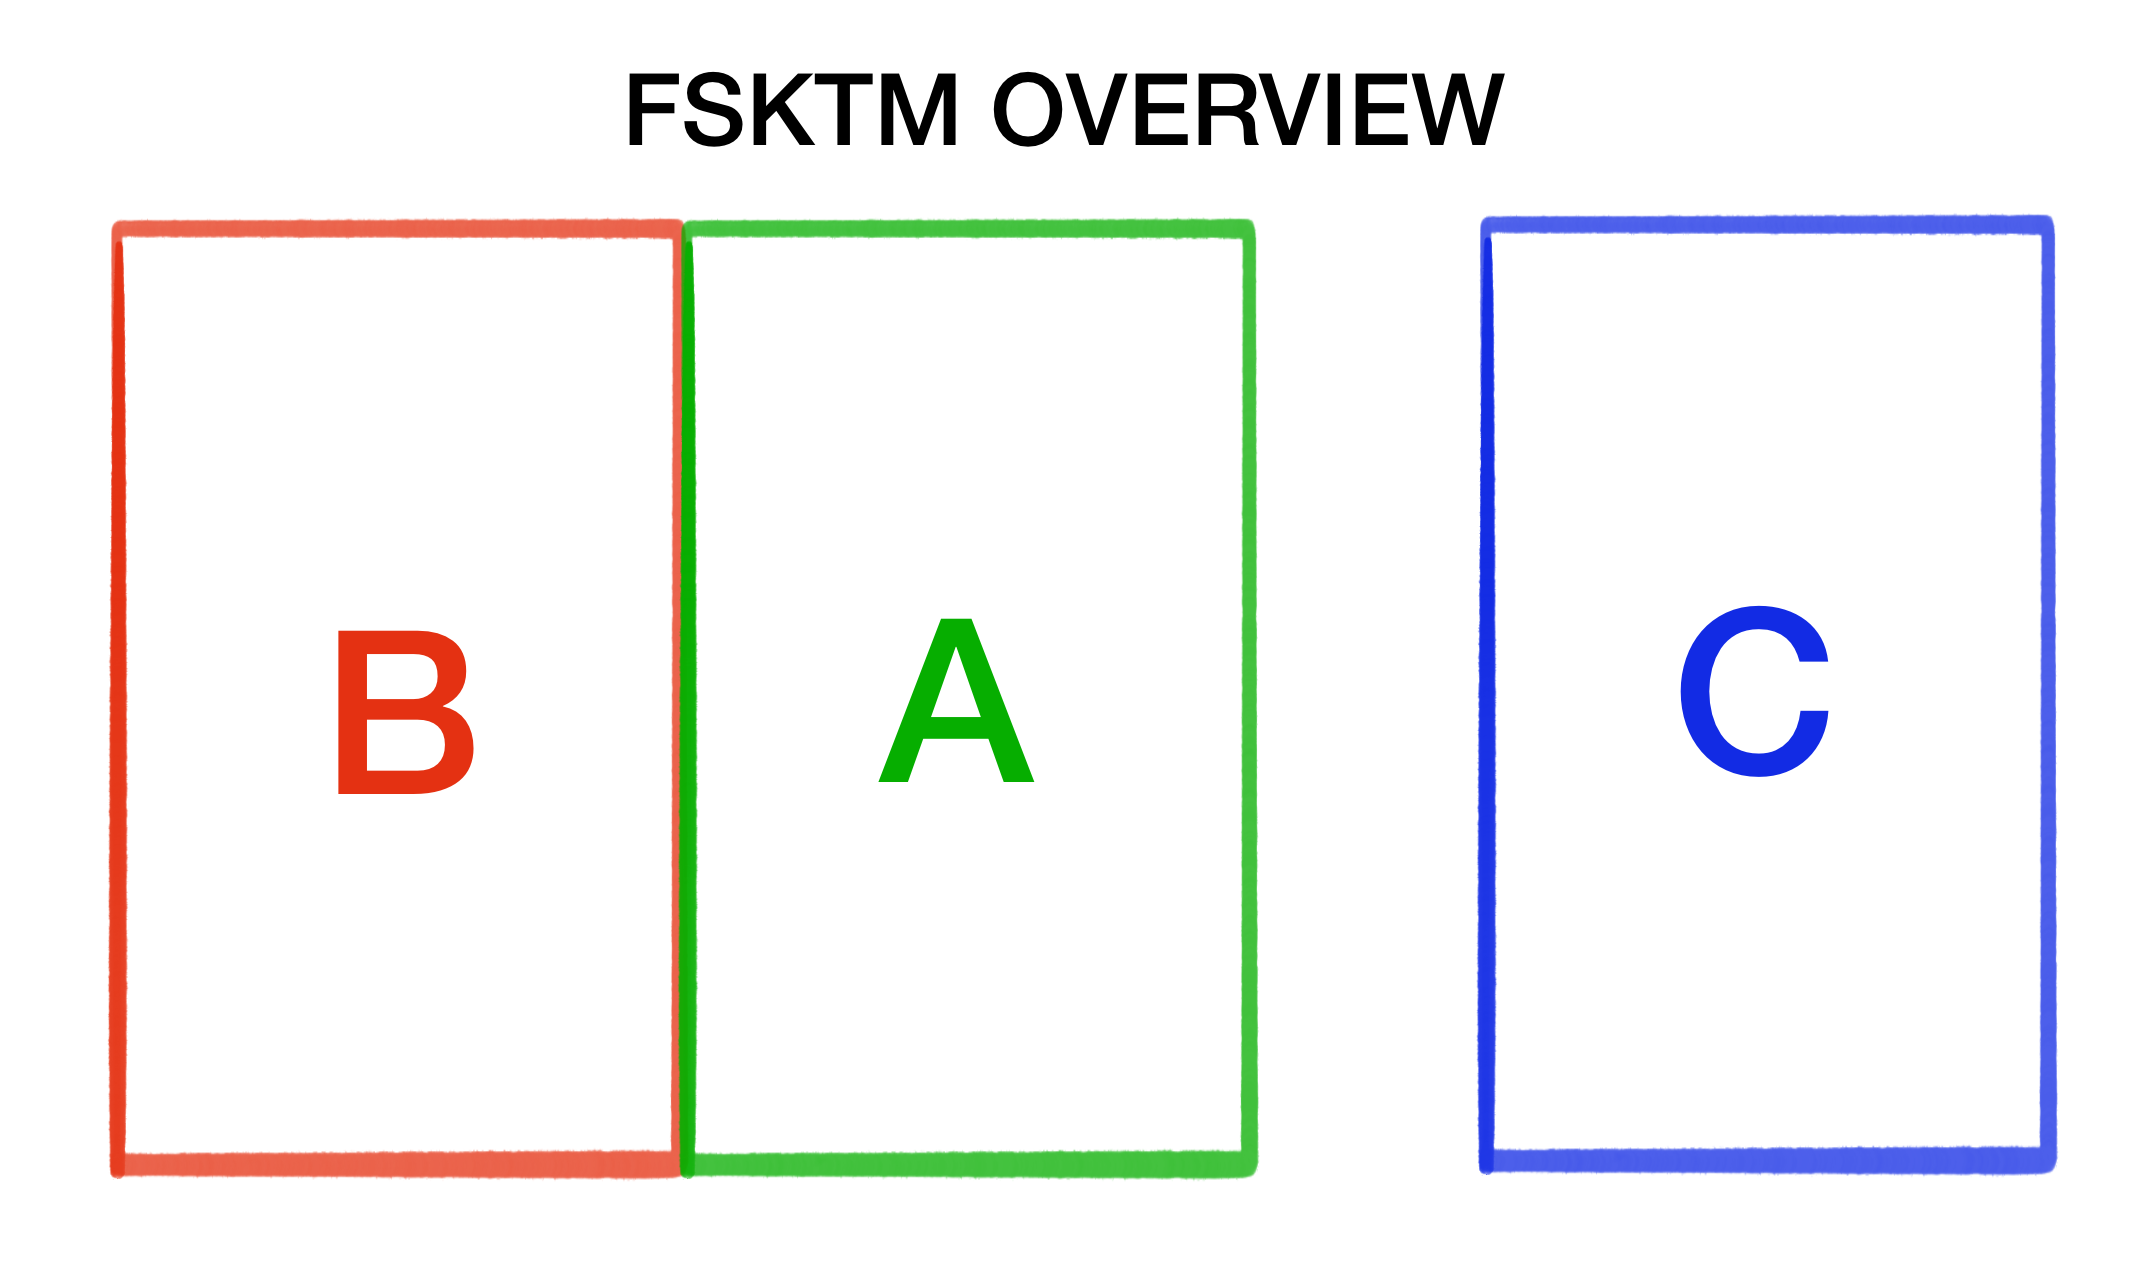
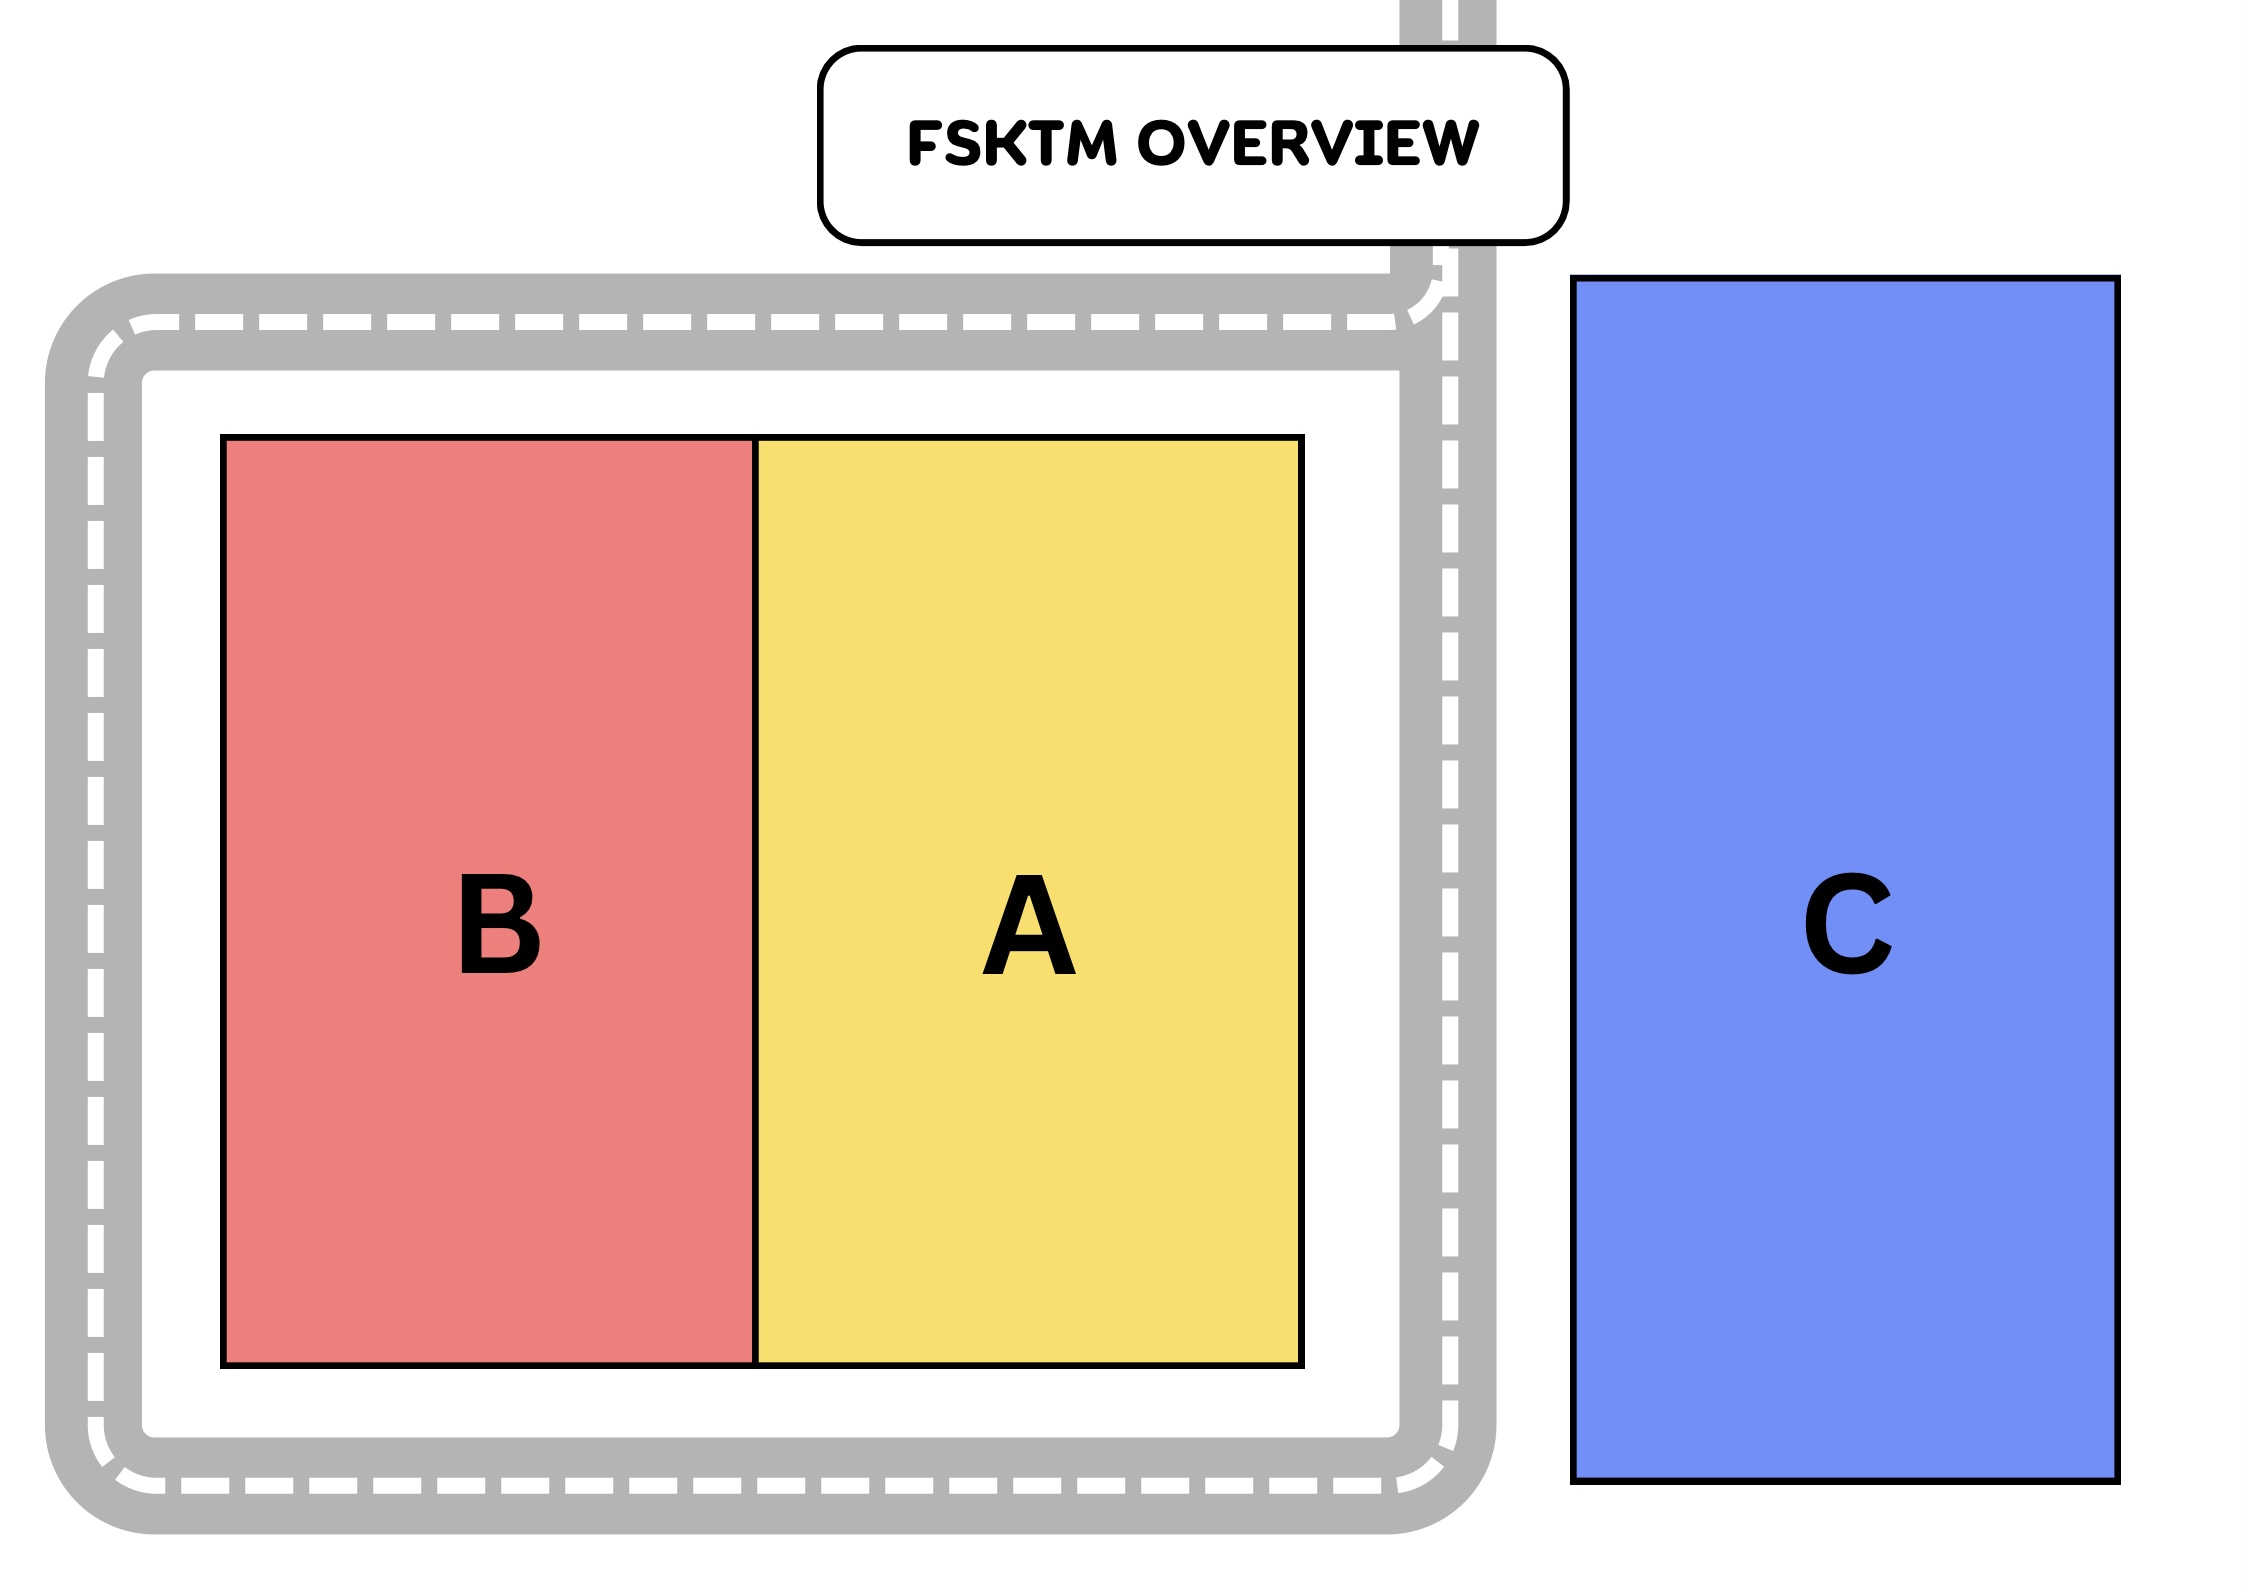
amni: updated faculty overview and adjusted block screen

diff --git a/fsktm_navigator/lib/screens/block_screen.dart b/fsktm_navigator/lib/screens/block_screen.dart
@@ -7,19 +7,29 @@ class BlockScreen extends StatelessWidget {
   Widget build(BuildContext context) {
     return Scaffold(
       backgroundColor: Colors.white,
+
       body: SafeArea(
         child: Padding(
-          padding: const EdgeInsets.symmetric(horizontal: 20, vertical: 16),
+          padding: const EdgeInsets.symmetric(
+            horizontal: 20,
+            vertical: 16,
+          ),
+
           child: Column(
             crossAxisAlignment: CrossAxisAlignment.start,
             children: [
+              // Header
               Row(
                 children: [
                   IconButton(
-                    onPressed: () {},
+                    onPressed: () {
+                      Navigator.pop(context);
+                    },
                     icon: const Icon(Icons.arrow_back_ios_new),
                   ),
+
                   const SizedBox(width: 8),
+
                   const Text(
                     "Block A",
                     style: TextStyle(
@@ -33,18 +43,20 @@ class BlockScreen extends StatelessWidget {
 
               const SizedBox(height: 24),
 
+              // Cards
               Expanded(
                 child: ListView(
-                  children: [
+                  children: const [
                     BlockCard(
                       title: "Ground Floor",
                       imagePath: "assets/images/block_a.png",
                       borderColor: Colors.lightGreen,
                       backgroundColor: Colors.white,
                       titleColor: Colors.black,
+                      titleSize: 20, // Smaller text
                     ),
 
-                    const SizedBox(height: 20),
+                    SizedBox(height: 20),
 
                     BlockCard(
                       title: "First Floor",
@@ -52,9 +64,10 @@ class BlockScreen extends StatelessWidget {
                       borderColor: Colors.lightGreen,
                       backgroundColor: Colors.white,
                       titleColor: Colors.black,
+                      titleSize: 20,
                     ),
 
-                    const SizedBox(height: 20),
+                    SizedBox(height: 20),
 
                     BlockCard(
                       title: "Second Floor",
@@ -62,6 +75,7 @@ class BlockScreen extends StatelessWidget {
                       borderColor: Colors.lightGreen,
                       backgroundColor: Colors.white,
                       titleColor: Colors.black,
+                      titleSize: 20,
                     ),
                   ],
                 ),
@@ -80,6 +94,7 @@ class BlockCard extends StatelessWidget {
   final Color borderColor;
   final Color backgroundColor;
   final Color titleColor;
+  final double titleSize;
 
   const BlockCard({
     super.key,
@@ -88,6 +103,7 @@ class BlockCard extends StatelessWidget {
     required this.borderColor,
     required this.backgroundColor,
     required this.titleColor,
+    this.titleSize = 20,
   });
 
   @override
@@ -96,23 +112,37 @@ class BlockCard extends StatelessWidget {
       onTap: () {
         // Navigate to block details
       },
+
       borderRadius: BorderRadius.circular(20),
+
       child: Container(
         height: 170,
+
         padding: const EdgeInsets.all(16),
+
         decoration: BoxDecoration(
           color: backgroundColor,
+
           borderRadius: BorderRadius.circular(20),
-          border: Border.all(color: borderColor, width: 1.5),
+
+          border: Border.all(
+            color: borderColor,
+            width: 1.5,
+          ),
         ),
+
         child: Row(
           children: [
+            // Image
             Container(
               width: 120,
               height: 120,
+
               decoration: BoxDecoration(
                 color: Colors.grey[200],
+
                 borderRadius: BorderRadius.circular(16),
+
                 image: DecorationImage(
                   image: AssetImage(imagePath),
                   fit: BoxFit.cover,
@@ -120,49 +150,57 @@ class BlockCard extends StatelessWidget {
               ),
             ),
 
+            // Text section
             Expanded(
               flex: 3,
+
               child: Padding(
                 padding: const EdgeInsets.symmetric(
                   horizontal: 20,
                   vertical: 16,
                 ),
+
                 child: Column(
                   crossAxisAlignment: CrossAxisAlignment.start,
+
                   children: [
                     Text(
                       title,
+
                       style: TextStyle(
-                        fontSize: 30,
+                        fontSize: titleSize, // Customizable size
                         fontWeight: FontWeight.bold,
                         color: titleColor,
                       ),
                     ),
 
-                    const SizedBox(height: 12),
+                    const SizedBox(height: 8),
 
                     const Text(
                       "View rooms and facilities",
-                      style: TextStyle(fontSize: 16, height: 1.5),
+
+                      style: TextStyle(
+                        fontSize: 12,
+                        height: 1.5,
+                      ),
                     ),
                   ],
                 ),
               ),
             ),
 
+            // Arrow icon
             Expanded(
-              flex: 2,
-              child: Column(
-                children: [
-                  Align(
-                    alignment: Alignment.topRight,
-                    child: Icon(
-                      Icons.chevron_right,
-                      size: 30,
-                      color: Colors.green[600],
-                    ),
-                  ),
-                ],
+              flex: 1,
+
+              child: Align(
+                alignment: Alignment.topRight,
+
+                child: Icon(
+                  Icons.chevron_right,
+                  size: 30,
+                  color: Colors.green,
+                ),
               ),
             ),
           ],

diff --git a/fsktm_navigator/lib/screens/splash_screen.dart b/fsktm_navigator/lib/screens/splash_screen.dart
@@ -80,7 +80,7 @@ class _SplashScreenState extends State<SplashScreen> {
                     const Text(
                       'SSE3401 Mobile Application Development',
                       style: TextStyle(
-                        fontSize: 17,
+                        fontSize: 15,
                         fontWeight: FontWeight.bold,
                         color: Color.fromARGB(255, 255, 255, 255),
                       ),
@@ -91,7 +91,7 @@ class _SplashScreenState extends State<SplashScreen> {
                     const Text(
                       'Lecturer: Ts. Dr. Sufri Muhammad',
                       style: TextStyle(
-                        fontSize: 17,
+                        fontSize: 15,
                         fontWeight: FontWeight.bold,
                         color: Color.fromARGB(255, 255, 255, 255),
                       ),
@@ -102,7 +102,7 @@ class _SplashScreenState extends State<SplashScreen> {
                     const Text(
                       'Sem 2 2025/2026',
                       style: TextStyle(
-                        fontSize: 17,
+                        fontSize: 15,
                         fontWeight: FontWeight.bold,
                         color: Color.fromARGB(255, 255, 255, 255),
                       ),
@@ -113,7 +113,7 @@ class _SplashScreenState extends State<SplashScreen> {
                     const Text(
                       'Group 2 Members:',
                       style: TextStyle(
-                        fontSize: 17,
+                        fontSize: 16,
                         fontWeight: FontWeight.bold,
                         color: Color.fromARGB(255, 255, 255, 255),
                       ),

diff --git a/fsktm_navigator/lib/screens/home_screen.dart b/fsktm_navigator/lib/screens/home_screen.dart
@@ -126,8 +126,8 @@ class _HomeScreenState extends State<HomeScreen> {
            borderRadius: BorderRadius.circular(10),
            child: Image.asset(
             'assets/images/faculty_overview.png',
-           height: 300,
-           width: double.infinity,
+           height: 215,
+           width: 300,
            fit: BoxFit.cover,
            ),
           ),

diff --git a/fsktm_navigator/lib/screens/detail_screen.dart b/fsktm_navigator/lib/screens/detail_screen.dart
@@ -197,6 +197,7 @@ class DetailScreen extends StatelessWidget {
       color: Colors.white,
       borderRadius: BorderRadius.circular(14),
       border: Border.all(color: const Color(0xFFE0E0E0)),
+
       boxShadow: [
         BoxShadow(
           color: Colors.black.withOpacity(0.04),